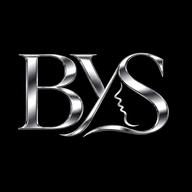
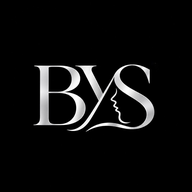
Update BYSCOSMETIC

Changed region(s): [[0.0938, 0.25, 0.9062, 0.7188]]

diff --git a/index.html b/index.html
@@ -8,17 +8,17 @@
     <title>BYS Cosmetics | Beauty, Elevated</title>
     <link rel="manifest" href="manifest.webmanifest">
     <link rel="preload" as="image" href="images/banners/bys-home.webp" fetchpriority="high">
-    <link rel="stylesheet" href="style.css?v=worldwide1">
+    <link rel="stylesheet" href="style.css?v=worldwide3">
 </head>
 <body>
     <dialog id="openingScreen" aria-label="BYS Cosmetics opening image">
         <img id="openingImage" alt="">
         <button id="openingSkip" type="button" aria-label="Skip opening screen">
             <span lang="ar">تخطّي</span>
-            <span id="openingCountdown" aria-hidden="true">10</span>
+            <span id="openingCountdown" aria-hidden="true">5</span>
         </button>
     </dialog>
-    <script src="opening.js?v=2"></script>
+    <script src="opening.js?v=3"></script>
     <!-- شاشة الترحيب: أربعة صفوف متحركة من صور المنتجات -->
     <section class="country-screen hidden" id="countryScreen">
         <div class="welcome-showcase" aria-label="Beauty products showcase">
@@ -29,7 +29,7 @@
         </div>
         <div class="welcome-form-area">
             <div class="welcome-logo">
-                <img src="images/bys-silver.webp" alt="BYS Cosmetics" onerror="this.hidden=true;this.nextElementSibling.hidden=false">
+                <img src="images/bys-logo.jpeg" alt="BYS Cosmetics" onerror="this.hidden=true;this.nextElementSibling.hidden=false">
                 <span hidden>BYS</span>
             </div>
             <h1>Welcome to BYS Cosmetics</h1>
@@ -55,7 +55,7 @@
     <!-- شاشة اختيار نوع المستخدم: تظهر مرة واحدة -->
     <section class="role-screen hidden" id="roleScreen" aria-labelledby="roleTitle">
         <div class="role-panel">
-            <img class="role-logo" src="images/bys-silver.webp" alt="BYS Cosmetics">
+            <img class="role-logo" src="images/bys-logo.jpeg" alt="BYS Cosmetics">
             <h1 id="roleTitle">How will you shop with us?</h1>
             <p>Choose your account type to continue</p>
             <div class="role-options">
@@ -89,12 +89,16 @@
     <!-- صورة الشعار الأصلية -->
     <img
         id="logoImage"
-        src="images/bys-silver.webp"
+        src="images/bys-logo.jpeg"
         alt="BYS Cosmetics"
     >
 </button>
 
                 <div class="header-actions">
+                    <button class="icon-button" type="button" data-view="categories" aria-label="Categories" title="Categories">
+                        <i data-lucide="layout-grid" aria-hidden="true"></i>
+                    </button>
+
                     <!-- كل أيقونة عبارة عن صورة مستقلة في مجلد images/ui -->
                     <button class="icon-button" data-view="favorites" aria-label="Favorites">
                         <img class="header-icon" src="images/ui/heart.svg" alt="">

diff --git a/style.css b/style.css
@@ -223,7 +223,7 @@ main { padding: 17px 22px 35px; }
 /* صور التصنيفات */
 .category-grid { display: grid; grid-template-columns: repeat(4, minmax(0,1fr)); gap: 17px 12px; }
 .category-item { border: 0; background: transparent; text-align: center; color: #2b1d25; padding: 0; min-width: 0; }
-.category-item img { width: min(100%, 112px); aspect-ratio: 1; border-radius: 50%; object-fit: cover; border: 3px solid #fff; box-shadow: 0 0 0 1px #f5d8e3; transition: transform .2s; }
+.category-item img { width: min(88%, 99px); aspect-ratio: 1; border-radius: 50%; object-fit: cover; border: 3px solid #fff; box-shadow: 0 0 0 1px #f5d8e3; transition: transform .2s; }
 .category-item:hover img { transform: scale(1.05); }
 .category-item span { display: block; font-size: 12px; font-weight: 700; margin-top: 7px; }
 .needs-banner { margin-top: 28px; padding: 22px 18px 19px; border-radius: 23px; background: linear-gradient(115deg, #f9c6db, #f9dfeb 70%, #f5b4d0); }
@@ -346,7 +346,7 @@ main { padding: 17px 22px 35px; }
     display: block;
     width: 100%;
     height: 100%;
-    object-fit: cover;
+    object-fit: contain;
 }
 
 /* ==================================================
@@ -378,7 +378,7 @@ main { padding: 17px 22px 35px; }
     .brand img {
         width: 100%;
         height: 100%;
-        object-fit: cover;
+        object-fit: contain;
     }
 
     /* تقريب أيقونات القلب والسلة والقائمة */
@@ -1836,7 +1836,7 @@ body.bys-cart-open #cartFeedback { display: none !important; }
     display: block;
     width: 100%;
     height: 100%;
-    object-fit: cover;
+    object-fit: contain;
 }
 
 html:has(#openingScreen[open]) { overflow: hidden; }

diff --git a/sw.js b/sw.js
@@ -1,9 +1,9 @@
 // Cache static files and images to make repeat visits faster.
-const CACHE_NAME = "bys-whish-manual-20261107-bys-discount-label-20261109-worldwide-v1";
-const STATIC_FILES = ["./", "./index.html", "./style.css", "./script.js", "./catalog.js", "./manifest.webmanifest",
-  "./opening.js?v=2",
+const CACHE_NAME = "bys-whish-manual-20261107-bys-discount-label-20261109-worldwide-v3";
+const STATIC_FILES = ["./", "./index.html", "./style.css?v=worldwide3", "./script.js", "./catalog.js", "./manifest.webmanifest",
+  "./opening.js?v=3",
   "./images/banners/bys-home.webp",
-  "./images/bys-silver.webp",
+  "./images/bys-logo.jpeg",
   "./images/opening/opening-01.webp",
   "./images/opening/opening-02.webp",
   "./images/opening/opening-03.webp",

diff --git a/opening.js b/opening.js
@@ -2,6 +2,7 @@
     const screen = document.getElementById("openingScreen");
     const image = document.getElementById("openingImage");
     const imageCount = 10;
+    const displayDuration = 5000;
     const storageKey = "bys-last-opening-image";
     let index = Math.floor(Math.random() * imageCount);
 
@@ -37,7 +38,7 @@
     image.addEventListener("load", () => {
         if (!screen.open) return;
         clearTimeout(loadTimeout);
-        const end = performance.now() + 10000;
+        const end = performance.now() + displayDuration;
         timer = setInterval(() => {
             const seconds = Math.max(0, Math.ceil((end - performance.now()) / 1000));
             countdown.textContent = String(seconds);
